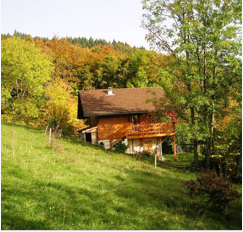
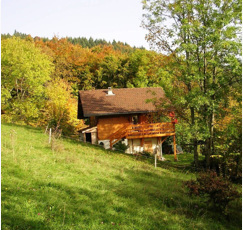
Update styleguide
- Fix colors palette
- Display a picture for the active housing

diff --git a/apps/web/assets/stylesheets/pages/_styleguide.scss b/apps/web/assets/stylesheets/pages/_styleguide.scss
@@ -6,7 +6,7 @@
 }
 
 .style-guide--colors {
-  .caption { min-height: 5em; }
+  .caption { min-height: 5.2em; }
   .color { height: 5em; }
 
   .black { background-color: $black; }

diff --git a/apps/web/controllers/styleguide/show.rb b/apps/web/controllers/styleguide/show.rb
@@ -1,6 +1,7 @@
 module Web::Controllers::Styleguide
   class Show
     include Web::Action
+    include Web::Assets::Helpers
     include Web::Users::SkipAuthentication
 
     expose :base_font
@@ -9,6 +10,7 @@ module Web::Controllers::Styleguide
     # Components
     # - Housing card
     expose :housing
+    expose :housing_pending
     expose :trip
 
     def call(params)
@@ -22,22 +24,39 @@ module Web::Controllers::Styleguide
         travelers_count: 5,
         starting_on: Date.today
       )
+
       user = OpenStruct.new(
         first_name: 'Nicolas',
         last_name: 'Filzi',
         avatar_uuid: nil
       )
-      @housing ||= OpenStruct.new(
+
+      @housing = OpenStruct.new(
         id: 42,
         user: user,
         trip: @trip,
         title: 'Ground floor with garden, calm.',
         description: 'Nice view over the lake, 55 sqm flat with garden.',
         url: '#',
-        picture_url: nil,
+        picture_url: asset_url('housing-picture.jpg'),
         provider: 'airbnb',
         total_price: 2900,
-        created_at: Time.parse('2017-05-30 17:55:00'),
+        created_at: Time.parse('2018-04-07 17:55:00'),
+        updated_at: Time.now,
+        dismissed: false
+      )
+
+      @housing_pending = OpenStruct.new(
+        id: 43,
+        user: user,
+        trip: @trip,
+        title: nil,
+        description: nil,
+        url: '#',
+        picture_url: nil,
+        provider: 'booking',
+        total_price: nil,
+        created_at: Time.parse('2017-04-07 18:30:00'),
         updated_at: Time.now,
         dismissed: false
       )

diff --git a/apps/web/views/styleguide/show.rb b/apps/web/views/styleguide/show.rb
@@ -10,6 +10,10 @@ module Web::Views::Styleguide
       HousingPresenter.new(locals[:housing])
     end
 
+    def housing_pending
+      HousingPresenter.new(locals[:housing_pending])
+    end
+
     def housing_authorization(housing)
       Web::Trips::Housings::Authorization.new(current_user, trip, housing)
     end
